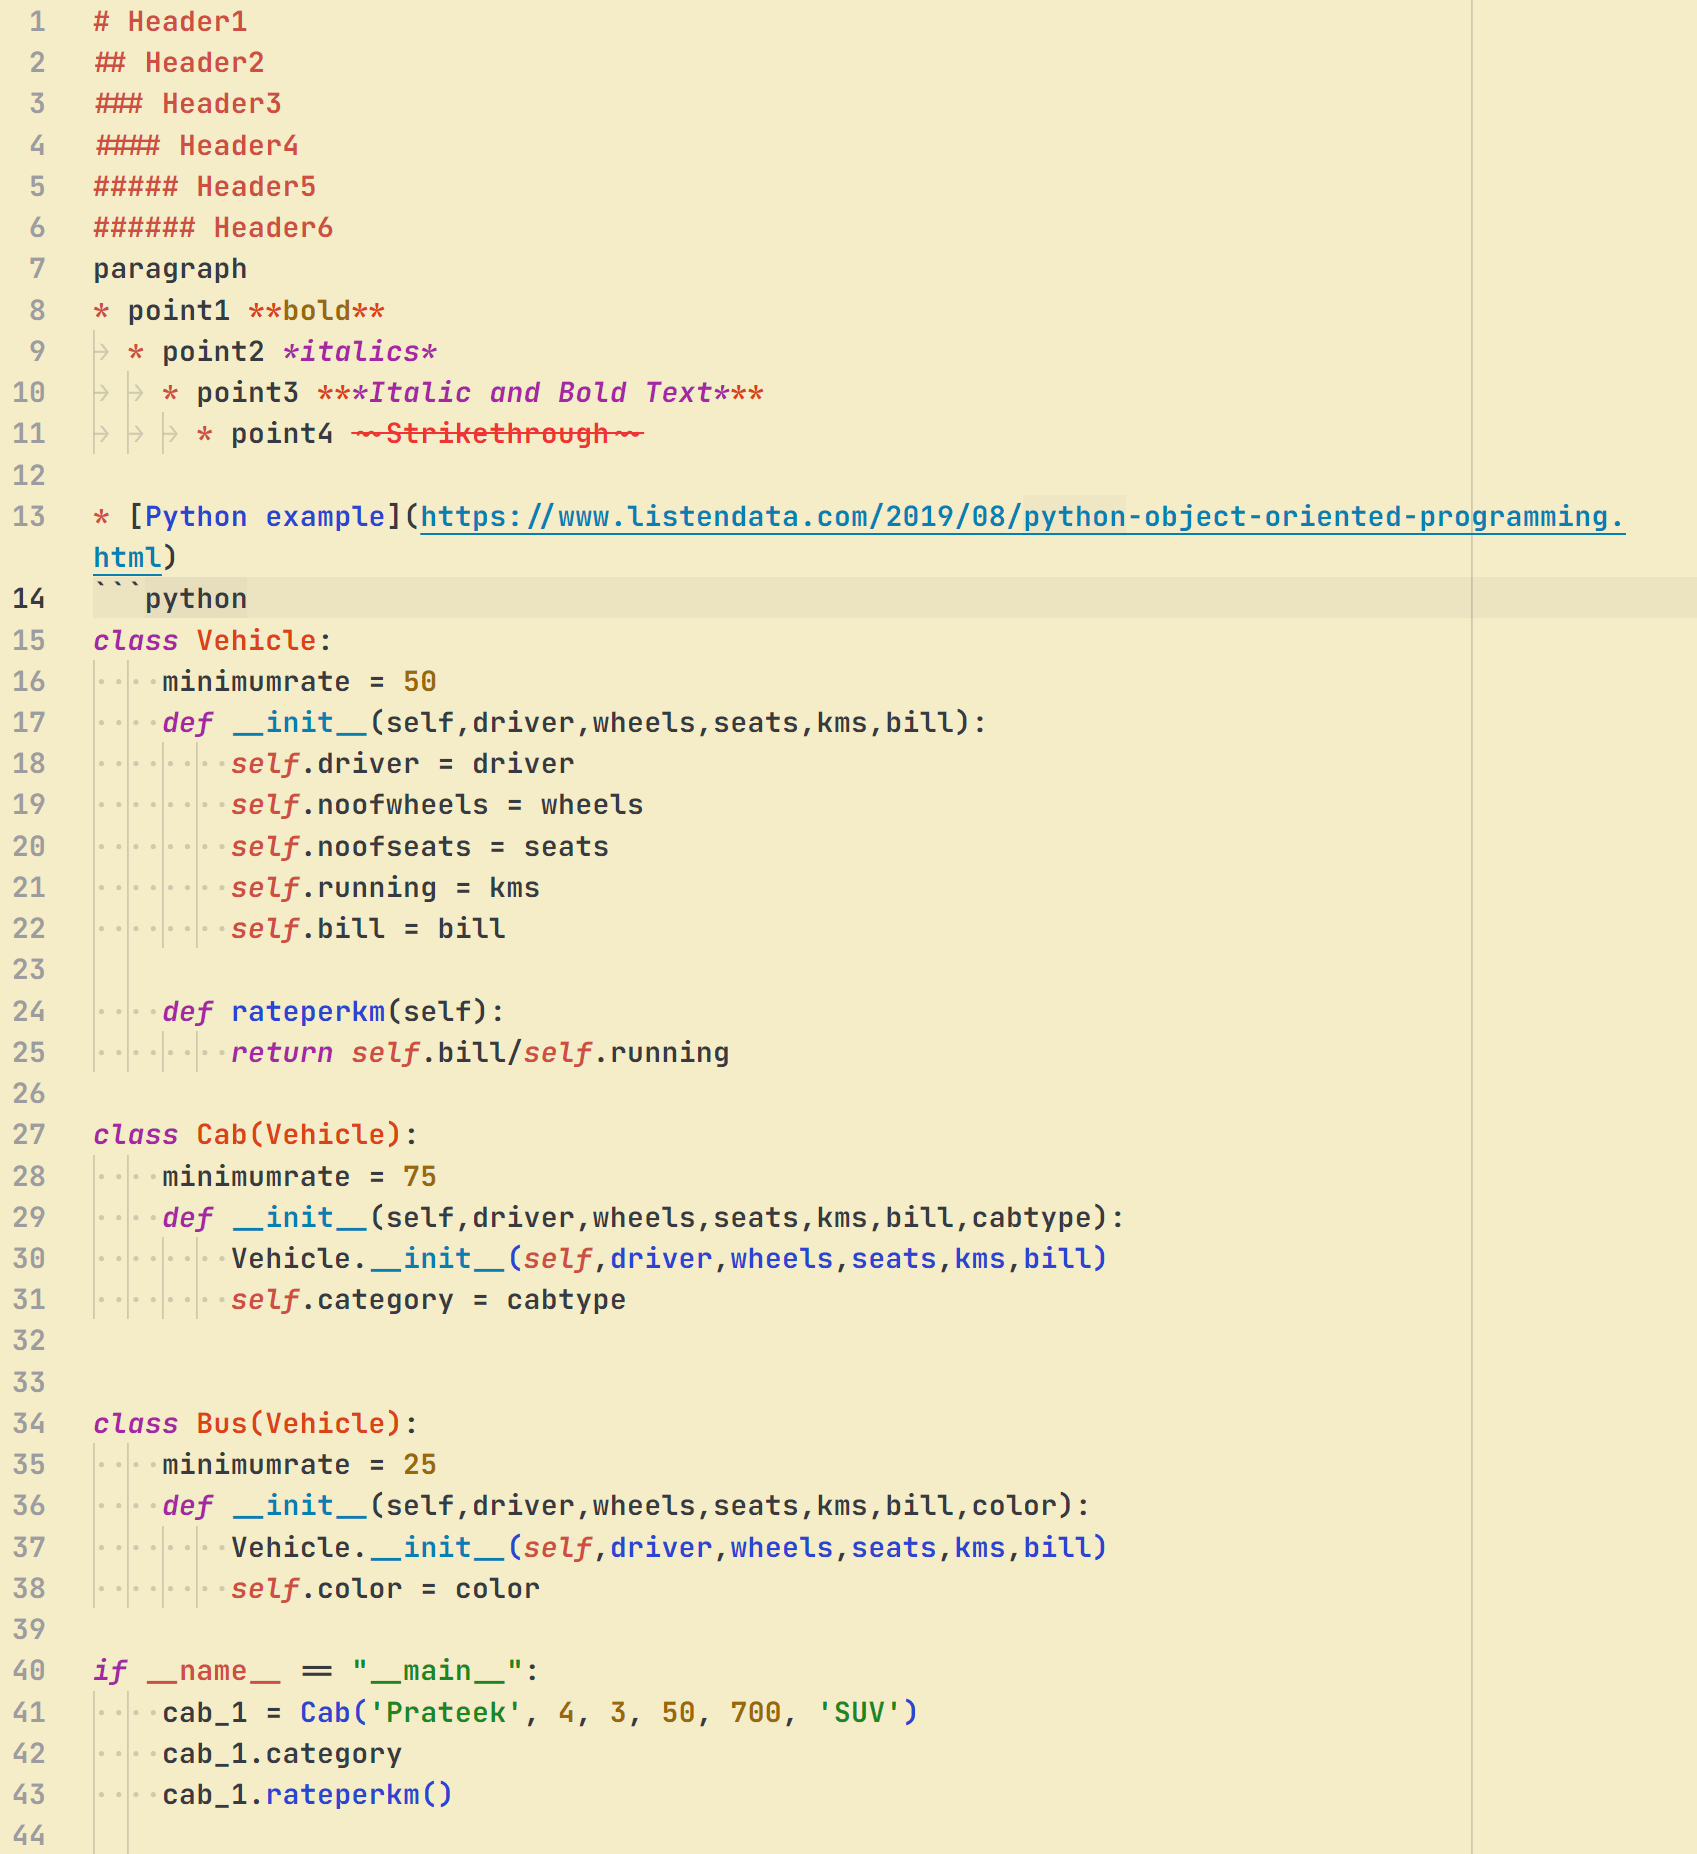
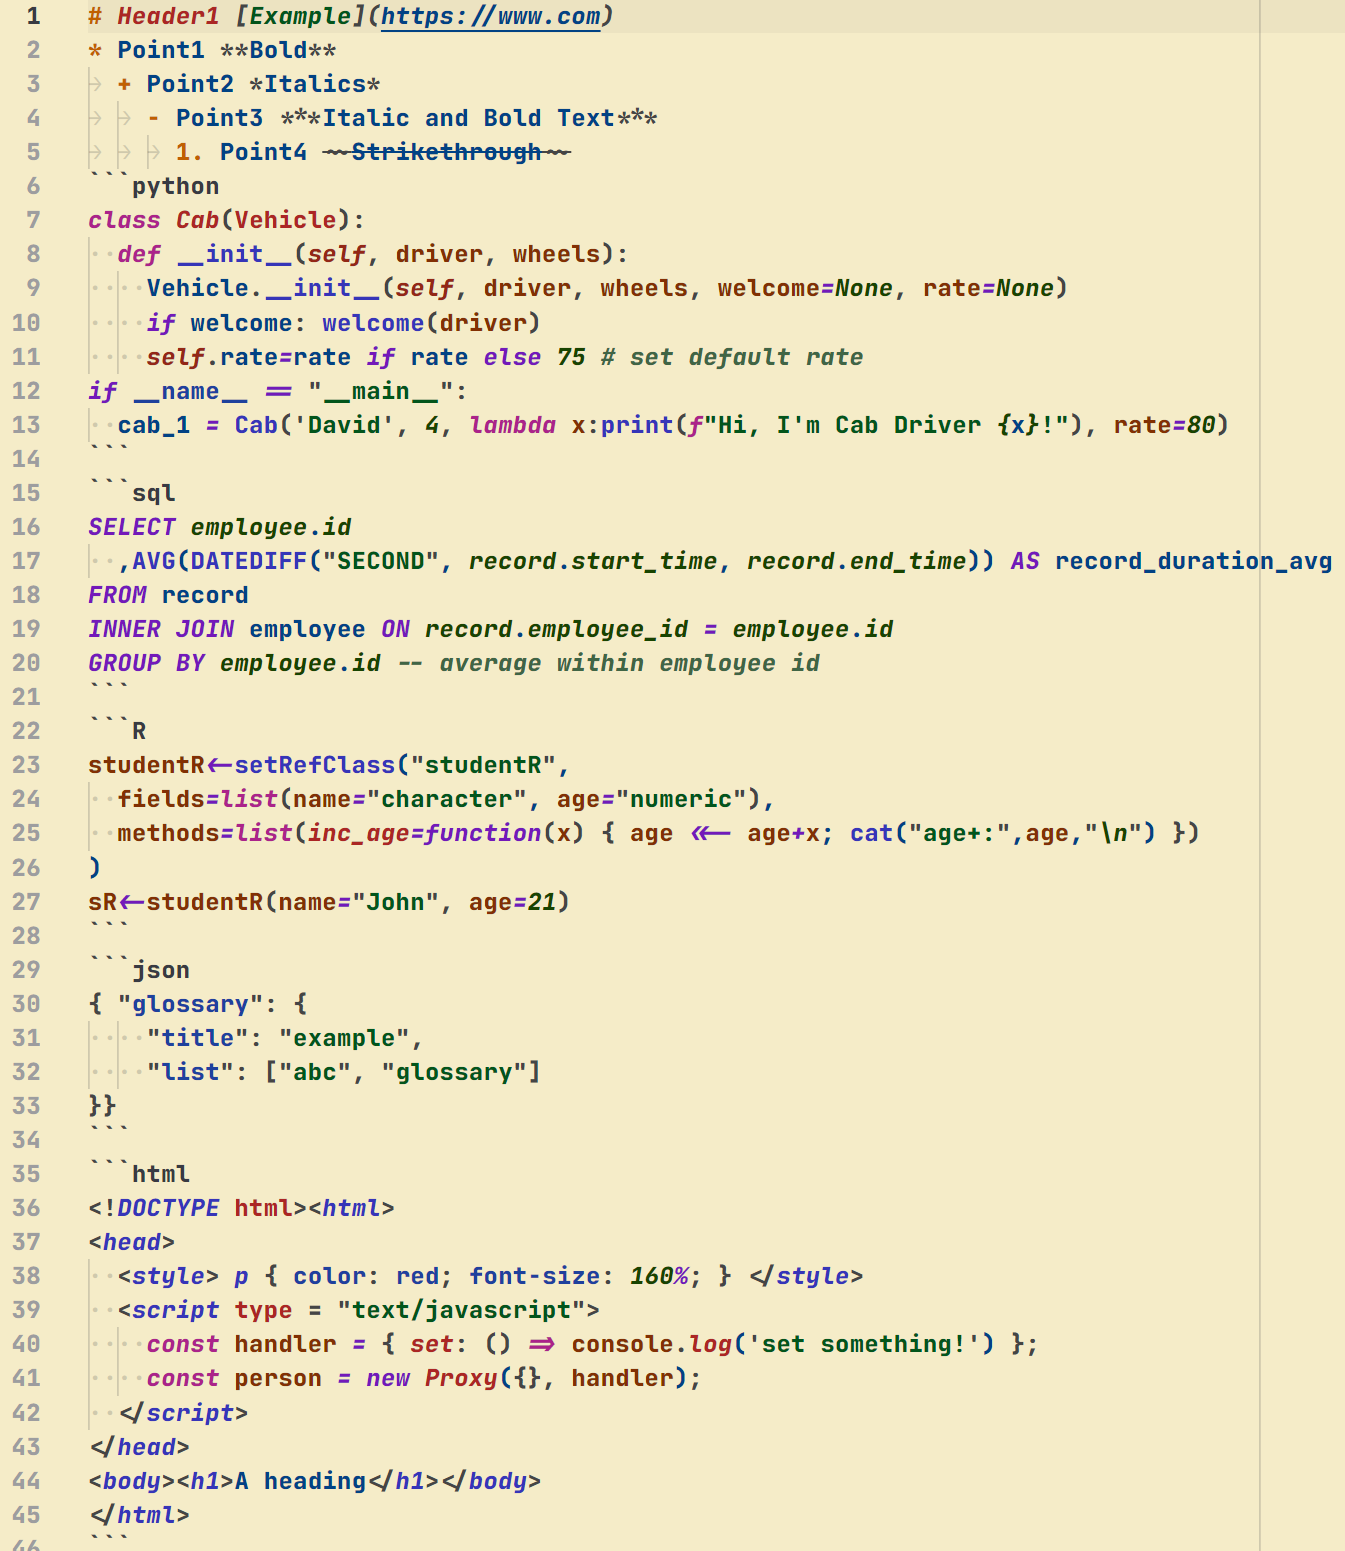
1.1.0 changelog, update screenshots.

diff --git a/CHANGELOG.md b/CHANGELOG.md
@@ -23,6 +23,8 @@ Rui Emerald and Topaz are derived from the [Yi Dark & Light Themes](https://gith
   - Cobalt: -green@string, +blue@comment, -white@text, ~yellow@make.target.
 - 2022-11-20 1.0.0
   - adjust further for markdown, json, sql.
+- 2022-11-22 1.1.0
+  - complete recoloring of all 3 themes.
 
 
 

diff --git a/README.md b/README.md
@@ -21,3 +21,5 @@
 
 - 2022-11-20 1.0.0
   - adjust further for markdown, json, sql.
+- 2022-11-22 1.1.0
+  - complete recoloring of all 3 themes.
